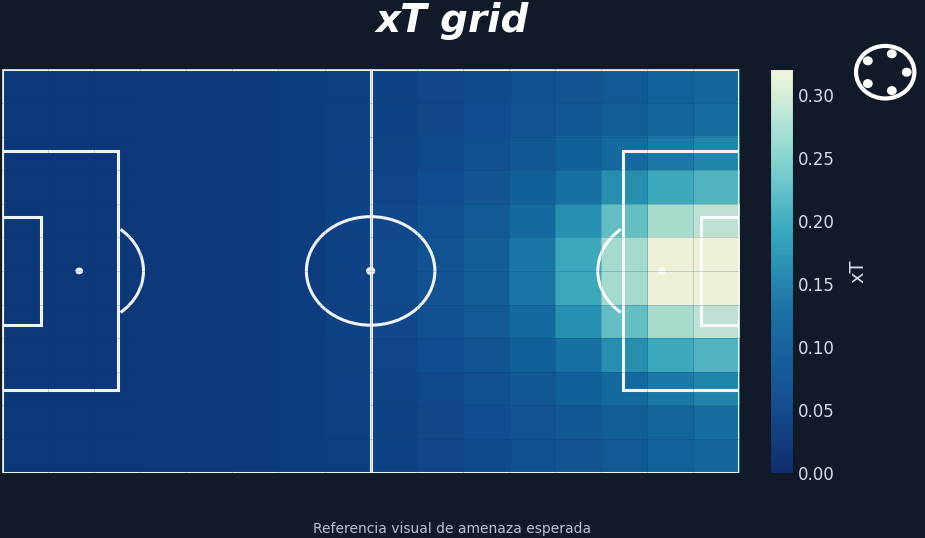
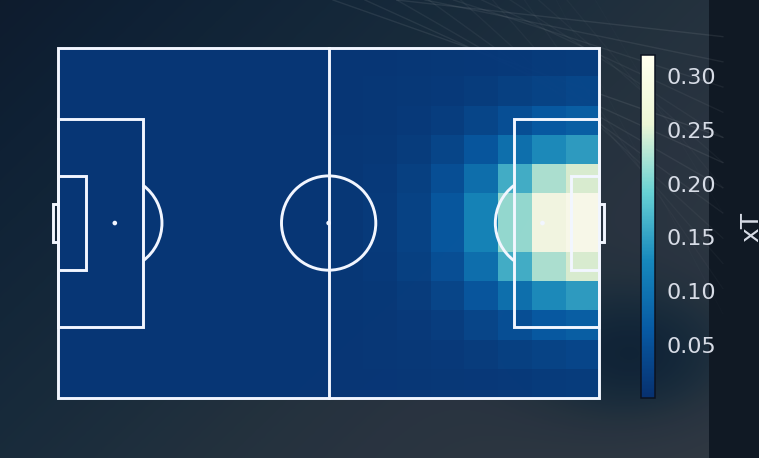
Pulir interfaz y secuencias criticas

diff --git a/app/streamlit_app.py b/app/streamlit_app.py
@@ -741,6 +741,30 @@ def inject_style():
             border: 1px solid rgba(200,16,46,0.38) !important;
             font-weight: 800 !important;
         }
+        div[data-testid="stButton"] button[kind="primary"],
+        div[data-testid="stButton"] button[data-testid="baseButton-primary"],
+        div[data-testid="stFormSubmitButton"] button[kind="primary"],
+        div[data-testid="stFormSubmitButton"] button[data-testid="baseButton-primary"] {
+            background: var(--osasuna-red) !important;
+            border-color: var(--osasuna-red) !important;
+            color: #ffffff !important;
+            box-shadow: 0 12px 22px rgba(200,16,46,0.24) !important;
+        }
+        div[data-testid="stButton"] button[kind="primary"]:hover,
+        div[data-testid="stButton"] button[data-testid="baseButton-primary"]:hover,
+        div[data-testid="stFormSubmitButton"] button[kind="primary"]:hover,
+        div[data-testid="stFormSubmitButton"] button[data-testid="baseButton-primary"]:hover {
+            background: var(--osasuna-red) !important;
+            border-color: var(--osasuna-red) !important;
+            color: #ffffff !important;
+        }
+        div[data-testid="stButton"] button[kind="primary"] p,
+        div[data-testid="stButton"] button[data-testid="baseButton-primary"] p,
+        div[data-testid="stFormSubmitButton"] button[kind="primary"] p,
+        div[data-testid="stFormSubmitButton"] button[data-testid="baseButton-primary"] p {
+            color: #ffffff !important;
+            font-weight: 900 !important;
+        }
         .sidebar-club {
             text-align: center;
             padding: 12px 6px 18px 6px;
@@ -926,7 +950,7 @@ def inject_style():
             grid-template-columns: auto minmax(0, 1fr);
             gap: 14px;
             align-items: center;
-            border-top-color: #2453a6;
+            border-top-color: var(--osasuna-red);
         }
         .registered-team-card-marker {
             display: none;
@@ -934,7 +958,7 @@ def inject_style():
         div[data-testid="stHorizontalBlock"]:has(.registered-team-card-marker) {
             background: rgba(32,37,50,0.78);
             border: 1px solid rgba(255,255,255,0.11);
-            border-top: 4px solid #2453a6;
+            border-top: 4px solid var(--osasuna-red);
             border-radius: 8px;
             padding: 16px;
             box-shadow: 0 12px 28px rgba(0,0,0,0.18);
@@ -950,6 +974,7 @@ def inject_style():
         }
         div[data-testid="stHorizontalBlock"]:has(.registered-team-card-marker) div[data-testid="stButton"] button {
             background: var(--osasuna-red) !important;
+            background-color: var(--osasuna-red) !important;
             color: #ffffff !important;
             border: 1px solid rgba(255,255,255,0.22) !important;
             border-radius: 8px !important;
@@ -1004,7 +1029,7 @@ def inject_style():
         }
         .club-home-card h1 {
             color: #ffffff !important;
-            font-size: 3.15rem;
+            font-size: clamp(3.4rem, 5.2vw, 5.1rem) !important;
             line-height: 1.08;
             margin: 0;
             font-weight: 950;
@@ -1256,7 +1281,7 @@ def inject_style():
         }
         .xt-reference-box {
             display: grid;
-            grid-template-columns: minmax(0, 0.82fr) minmax(260px, 0.44fr);
+            grid-template-columns: minmax(0, 0.78fr) minmax(320px, 0.50fr);
             gap: 14px;
             align-items: center;
             margin: 10px 0 18px 0;
@@ -1309,11 +1334,12 @@ def inject_style():
         }
         .xt-reference-box img {
             width: 100%;
-            max-height: 260px;
+            max-height: 315px;
             object-fit: contain;
             border-radius: 7px;
             border: 1px solid rgba(255,255,255,0.10);
             background: #111827;
+            padding: 0;
         }
         @media (max-width: 900px) {
             .xt-reference-box {
@@ -3477,31 +3503,41 @@ def _plot_selectable_sequence_bar(
         plot_df["_bar_text"] = plot_df[y].map(lambda value: f"{value:.2f}")
     legend_labels = plot_df[color].dropna().astype(str).drop_duplicates().tolist() if color in plot_df.columns else []
     category_colors = color_map or _category_color_map(legend_labels)
-    fig = px.bar(
-        plot_df,
-        x="secuencia",
-        y=y,
-        color=color if color in plot_df.columns else None,
-        text="_bar_text",
-        custom_data=["secuencia_rival_id"],
-        labels=labels or {"secuencia": "Secuencia", y: y},
-        height=height,
-        title=title,
-        color_discrete_sequence=APP_COLOR_SEQUENCE,
-        color_discrete_map=category_colors or APP_COLOR_MAP,
+    if color in plot_df.columns:
+        bar_colors = [
+            category_colors.get(str(value), APP_COLOR_SEQUENCE[idx % len(APP_COLOR_SEQUENCE)])
+            for idx, value in enumerate(plot_df[color].astype(str).tolist())
+        ]
+    else:
+        bar_colors = [APP_COLOR_SEQUENCE[idx % len(APP_COLOR_SEQUENCE)] for idx in range(len(plot_df))]
+    selected_seq = str(int(selected_id)) if selected_id is not None else None
+    marker_line_colors = [
+        "#ffffff" if selected_seq is not None and seq_id == selected_seq else "rgba(255,255,255,0.14)"
+        for seq_id in plot_df["secuencia"].tolist()
+    ]
+    marker_line_widths = [3 if selected_seq is not None and seq_id == selected_seq else 1 for seq_id in plot_df["secuencia"].tolist()]
+    fig = go.Figure(
+        data=[
+            go.Bar(
+                x=plot_df["secuencia"],
+                y=plot_df[y],
+                text=plot_df["_bar_text"],
+                customdata=plot_df[["secuencia_rival_id"]].astype(int).to_numpy(),
+                marker=dict(
+                    color=bar_colors,
+                    opacity=0.96,
+                    line=dict(color=marker_line_colors, width=marker_line_widths),
+                ),
+                hovertemplate="Secuencia %{x}<br>%{y:.3f}<extra></extra>",
+            )
+        ]
     )
     fig.update_traces(
         texttemplate="%{text}",
         textposition="outside",
         cliponaxis=False,
         textfont=dict(size=15, color="#f8fafc", family="Arial Black, Arial, sans-serif"),
-        marker=dict(opacity=0.96),
     )
-    for trace in fig.data:
-        trace_name = str(getattr(trace, "name", ""))
-        if trace_name in category_colors:
-            trace.marker.color = category_colors[trace_name]
-            trace.marker.line = dict(color="rgba(255,255,255,0.14)", width=1)
     _apply_plotly_theme(fig)
     fig.update_layout(
         margin=dict(l=72, r=8, t=64, b=78),
@@ -3509,6 +3545,7 @@ def _plot_selectable_sequence_bar(
         clickmode="event+select",
         showlegend=False,
         title=dict(x=0.5, xanchor="center", font=dict(size=22, color="#f4f6fb")),
+        height=height,
     )
     max_y = pd.to_numeric(plot_df[y], errors="coerce").max()
     y_range_top = max(float(max_y) * 1.28, 0.1) if pd.notna(max_y) else None
@@ -6910,13 +6947,21 @@ def render_secuencias_criticas(match_id: int, meta: dict):
         "Esta pestaña concentra las jugadas que conviene revisar en vídeo primero. Puedes filtrar, ordenar por prioridad, abrir la lectura táctica de cada barra y cargar el vídeo solo cuando lo necesites.",
     )
     _subsection_heading("Jugada crítica: filtrar, ordenar y revisar")
-    st.caption("Filtra solo por IDD, IPO o prioridad combinada. La gráfica muestra el top 5 de acciones para revisar primero.")
-    criterio = st.selectbox(
-        "Ordenar por",
-        ["Combinada", "IPO", "IDD"],
-        key=f"crit_sort_{match_id}",
-    )
-    current = seq.copy()
+    st.caption("Filtra por todas las tipologías o por una concreta, y ordena solo por IDD, IPO o prioridad combinada. La gráfica muestra el top 5 de acciones para revisar primero.")
+    filter_col, sort_col_ui = st.columns([1.15, 1])
+    with filter_col:
+        tipologia_filter = st.selectbox(
+            "Tipología",
+            _tipology_options(seq),
+            key=f"crit_tipologia_{match_id}",
+        )
+    with sort_col_ui:
+        criterio = st.selectbox(
+            "Ordenar por",
+            ["Combinada", "IPO", "IDD"],
+            key=f"crit_sort_{match_id}",
+        )
+    current = _filter_tipology(seq, tipologia_filter)
     if "score_critico" not in current.columns:
         current["score_critico"] = (
             pd.to_numeric(current.get("indice_desorganizacion", pd.Series(0, index=current.index)), errors="coerce").fillna(0)
@@ -6932,7 +6977,7 @@ def render_secuencias_criticas(match_id: int, meta: dict):
     all_patterns = [v for v in _tipology_options(seq) if v != "Todas"]
     pattern_color_map = _tipology_color_map(all_patterns)
     top_for_chart = current.head(5).copy()
-    selected_key = f"crit_seq_selected_{match_id}"
+    selected_key = f"crit_seq_selected_{match_id}_{tipologia_filter}_{criterio}"
     options = top_for_chart["secuencia_rival_id"].dropna().astype(int).tolist()
     selected = st.session_state.get(selected_key)
     try:
@@ -6942,26 +6987,24 @@ def render_secuencias_criticas(match_id: int, meta: dict):
     if selected is not None and selected not in options:
         selected = None
         st.session_state[selected_key] = None
-    if selected is None and options:
-        selected = int(options[0])
+    if top_for_chart.empty:
+        st.info("No hay secuencias para el filtro seleccionado.")
+        return
+    clicked = _plot_selectable_sequence_bar(
+        top_for_chart,
+        sort_col,
+        f"Top 5 secuencias por {criterio}",
+        color="tipologia",
+        selected_id=int(selected) if selected is not None else None,
+        key=f"crit_bar_select_{match_id}_{tipologia_filter}_{criterio}",
+        labels={"secuencia": "Secuencia", sort_col: criterio, "tipologia": "Tipología"},
+        height=500,
+        color_map=pattern_color_map,
+    )
+    if clicked is not None and int(clicked) in options:
+        selected = int(clicked)
         st.session_state[selected_key] = selected
-    if not top_for_chart.empty:
-        clicked = _plot_selectable_sequence_bar(
-            top_for_chart,
-            sort_col,
-            f"Top 5 secuencias por {criterio}",
-            color="tipologia",
-            selected_id=int(selected) if selected is not None else None,
-            key=f"crit_bar_select_{match_id}_{criterio}",
-            labels={"secuencia": "Secuencia", sort_col: criterio, "tipologia": "Tipología"},
-            height=500,
-            color_map=pattern_color_map,
-        )
-        if clicked is not None and int(clicked) in options:
-            selected = int(clicked)
-            st.session_state[selected_key] = selected
     if selected is None:
-        st.info("No hay ninguna secuencia seleccionada. Pincha en una barra para abrir su lectura y decidir si quieres ver el vídeo.")
         return
     row = current[current["secuencia_rival_id"].astype(int).eq(int(selected))].iloc[0]
     row_tipologia = str(row.get("tipologia", "-"))
@@ -7373,13 +7416,15 @@ def _render_momentum_formula_note():
         """
         <div class="momentum-formula-card">
           <strong>Como se calcula el momentum defensivo</strong>
+          <span>Cada secuencia rival se transforma primero en un impulso de presion defensiva. Ese impulso mezcla desorganizacion del bloque, amenaza ofensiva, xThreat y profundidad territorial.</span>
           <div class="momentum-formula-grid">
-            <div><b>IDD</b><em>35%</em></div>
-            <div><b>IPO</b><em>35%</em></div>
-            <div><b>xT</b><em>20%</em></div>
-            <div><b>Ultimo tercio</b><em>10%</em></div>
+            <div><b>IDD</b><em>35%</em><span>Cuanto mas se rompe la estructura, mas sube la curva.</span></div>
+            <div><b>IPO</b><em>35%</em><span>Prioriza acciones con peligro real o potencial alto.</span></div>
+            <div><b>xT</b><em>20%</em><span>Se normaliza con el P90 del partido para evitar picos aislados.</span></div>
+            <div><b>Ultimo tercio</b><em>10%</em><span>Premia las secuencias que alcanzan zonas profundas.</span></div>
           </div>
-          <span>La curva acumula esos impulsos por minuto con memoria del 88%: varias secuencias seguidas sostienen la presion y los minutos tranquilos la reducen.</span>
+          <span>La curva suma los impulsos por minuto y conserva el 88% del valor del minuto anterior. Por eso una accion aislada genera un pico breve, mientras que varias llegadas seguidas sostienen el momentum rival.</span>
+          <span>Las alertas temporales se calculan en tramos de 15 minutos con una mezcla distinta: 26% volumen de secuencias, 24% IDD, 24% IPO, 16% tiros y 10% entradas al ultimo tercio. Asi se detecta el tramo que combina insistencia, desorden, amenaza y finalizacion.</span>
         </div>
         """,
         unsafe_allow_html=True,
@@ -7634,6 +7679,12 @@ def render_cronologia(match_id: int, meta: dict):
             font-size: 1.12rem;
             margin-top: 2px;
           }
+          .momentum-formula-grid span {
+            color: #d8e0ef;
+            font-size: .76rem;
+            line-height: 1.25;
+            margin-top: 5px;
+          }
           .chrono-phase-grid {
             display: grid;
             grid-template-columns: repeat(auto-fit, minmax(190px, 1fr));
@@ -7686,6 +7737,7 @@ def render_cronologia(match_id: int, meta: dict):
     critical = selected_windows[0][2] if selected_windows else None
 
     _info_heading("Momentum defensivo", MOMENTUM_INFO, level=3)
+    _render_momentum_formula_note()
     _plot_defensive_momentum(df, critical)
 
     _subsection_heading("Alertas temporales del partido")
